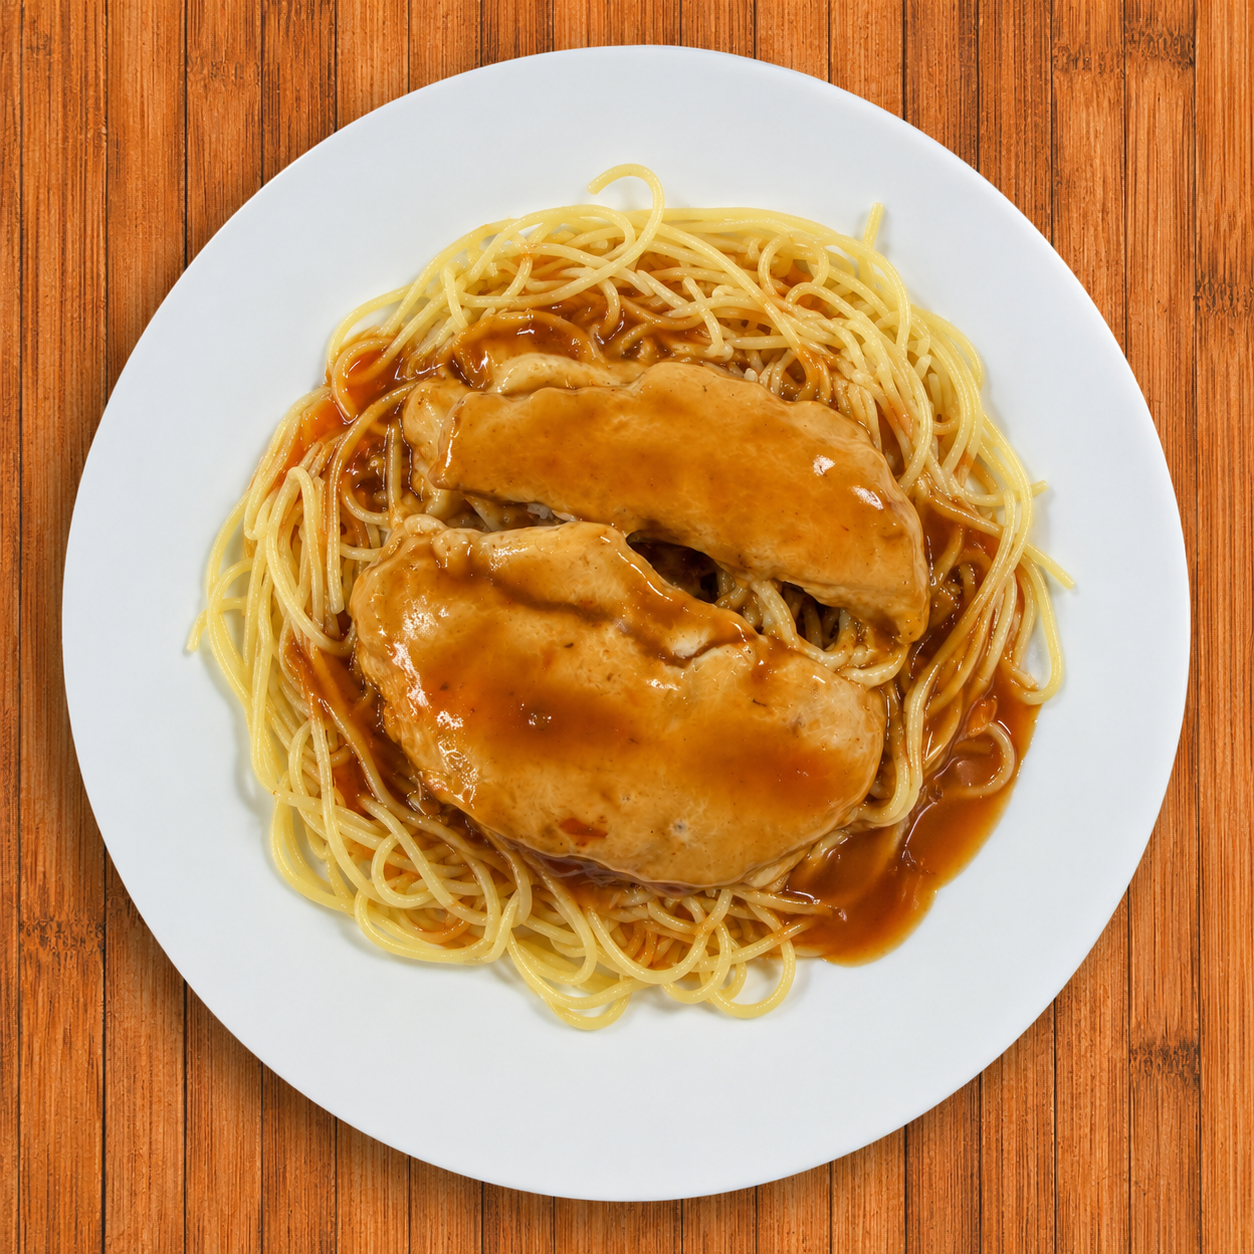
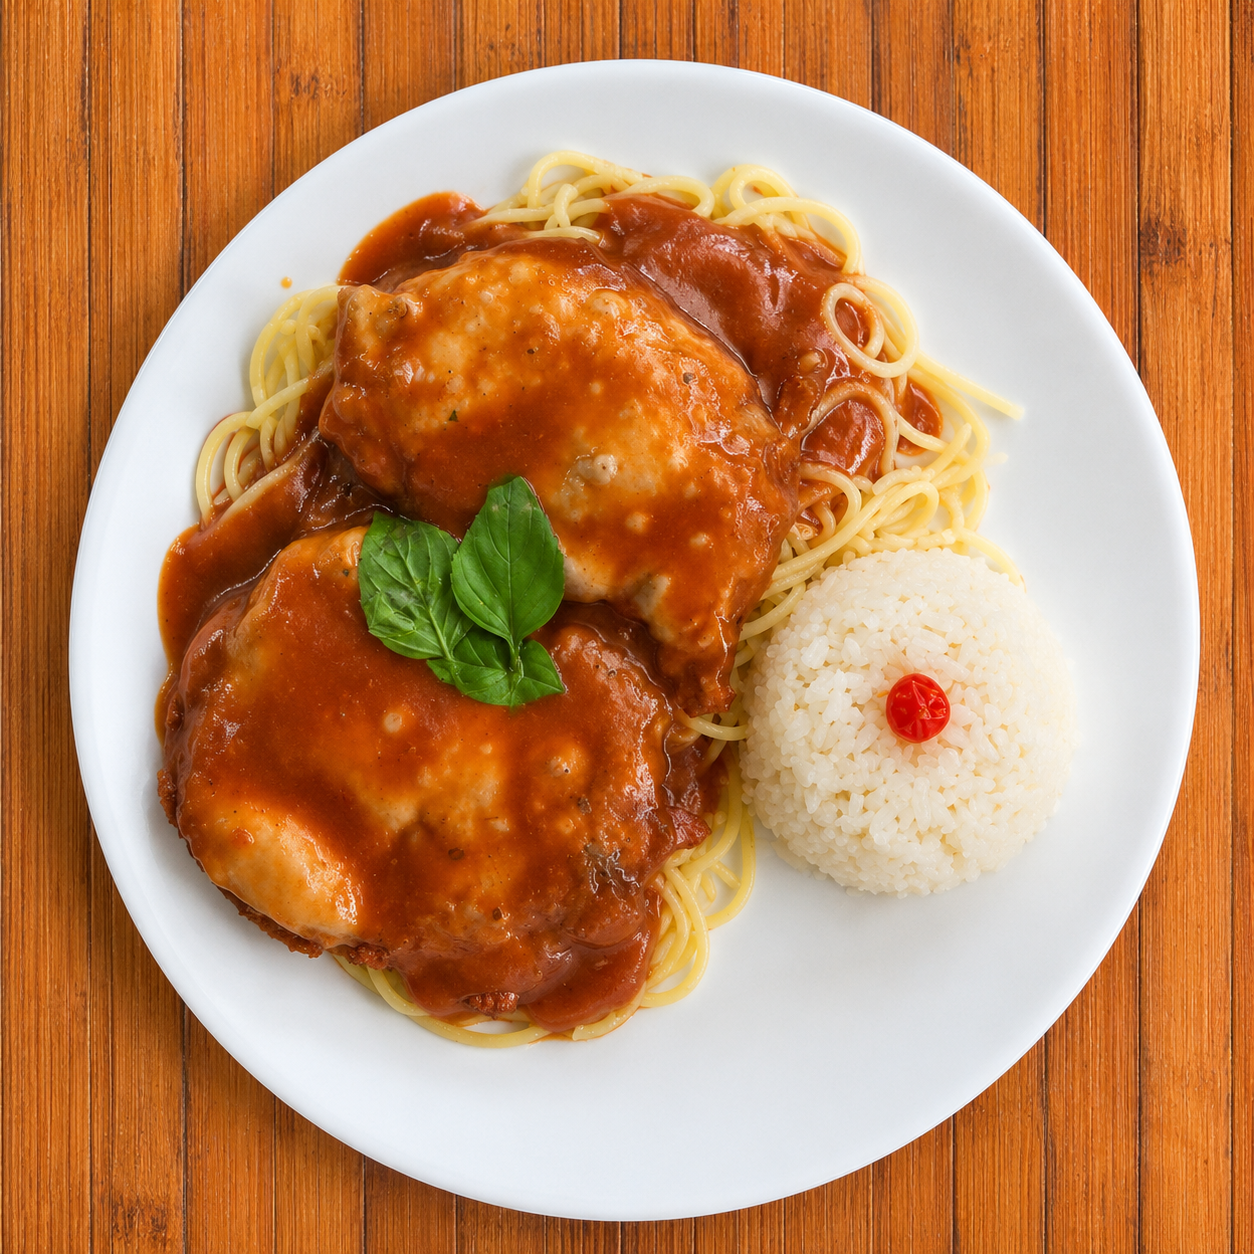
feat: Ajuste para nova imagem e preços

diff --git a/index.html b/index.html
@@ -122,7 +122,9 @@
         <article class="card-produto">
             <div class="cabecalho-card">
                 <h3>Barça</h3>
-                <p>Frango, Carne<br />ou Tilápia <strong>R$30</strong></p>
+                <p>Frango <strong>R$30</strong></p>
+                <p>Carne <strong>R$30</strong></p>
+                <p>Tilápia <strong>R$30</strong></p>
             </div>
 
             <div class="foto-card">